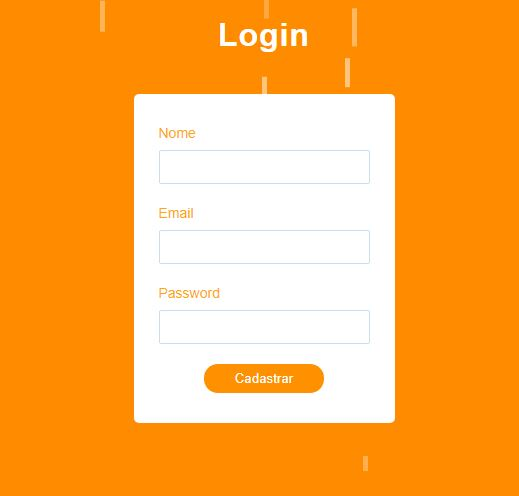
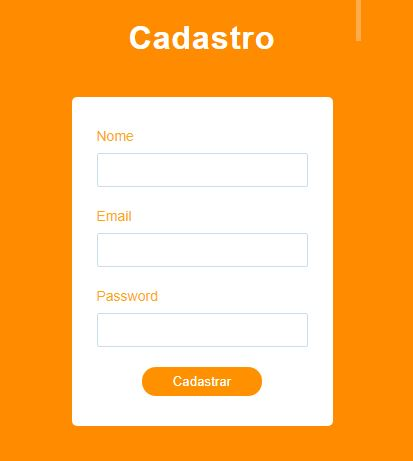
- alteração no titulo da pagina de cadastro e das imagens no README.md;

Changed region(s): [[0.1743, 0.0, 0.8136, 0.9718], [0.8426, 0.0, 0.8717, 0.0911], [0.1743, 0.0, 0.2034, 0.0607]]

diff --git a/styles/formstyle.css b/styles/formstyle.css
@@ -88,7 +88,10 @@ form .btn-cad{
 
 }
 
-/* Animação no Css */
+/* ============   Animação no Css ============   */
+body{
+    overflow: hidden;
+}
 h1{
     animation-name: fade;
     animation-duration: 1s;
@@ -97,10 +100,11 @@ form{
     animation-name: fade;
     animation-duration: 2s;
 }
+.titulo-cadastro{
+    animation: fade 4s;
+}
 .form-cadastro{
-
-    animation: fade 2s;
-
+    animation: fade 3s;
 }
 
 @keyframes fade {
@@ -112,10 +116,8 @@ form{
         transform: scale(1);
          }
 }
-/* linhas animação */
-body{
-    overflow: hidden;
-}
+/* linhas animação no backgound-da pagina */
+
 .lines li{
     width: 5px;
     height: 15px;

diff --git a/scripts/novousuario.js b/scripts/novousuario.js
@@ -1,8 +1,15 @@
-var form = document.querySelector("form");
 
+/* transformação da parte de login para pagina de cadastro */
 
 function fun_cadastro(){
-    var form = document.querySelector("form");
+    const form = document.querySelector("form");
+    const titulo = document.querySelector("h1");
+
+    /* mudanças no titulo da pagina */
+    titulo.classList.add("titulo-cadastro");
+    titulo.innerHTML = "Cadastro ";
+    /* mudanças no form da pagina */
+
     form.classList.add("form-cadastro");
     form.innerHTML = "<form >\n" +
         "            <div class=\"input-block\">\n" +

diff --git a/index.html b/index.html
@@ -9,7 +9,7 @@
 </head>
 <body>
 <section class="form-section">
-    <h1>Login</h1>
+    <h1 >Login</h1>
 
     <div class="form-wrapper">
         <form >

diff --git a/README.md b/README.md
@@ -3,7 +3,7 @@
 <p> -Desenvolvimento de uma página web utilizando html5, CSS3, Javacript</p>
 <p> -Os dados de Site será gravado e lidos de banco de dados <b>SQL</b></p>
 
-<h6> tela principal </h6>
+<h6> tela principal e Cadastro </h6>
 <img src="imagens/index.JPG">
 
 <h6> tela de cadastro</h6>
